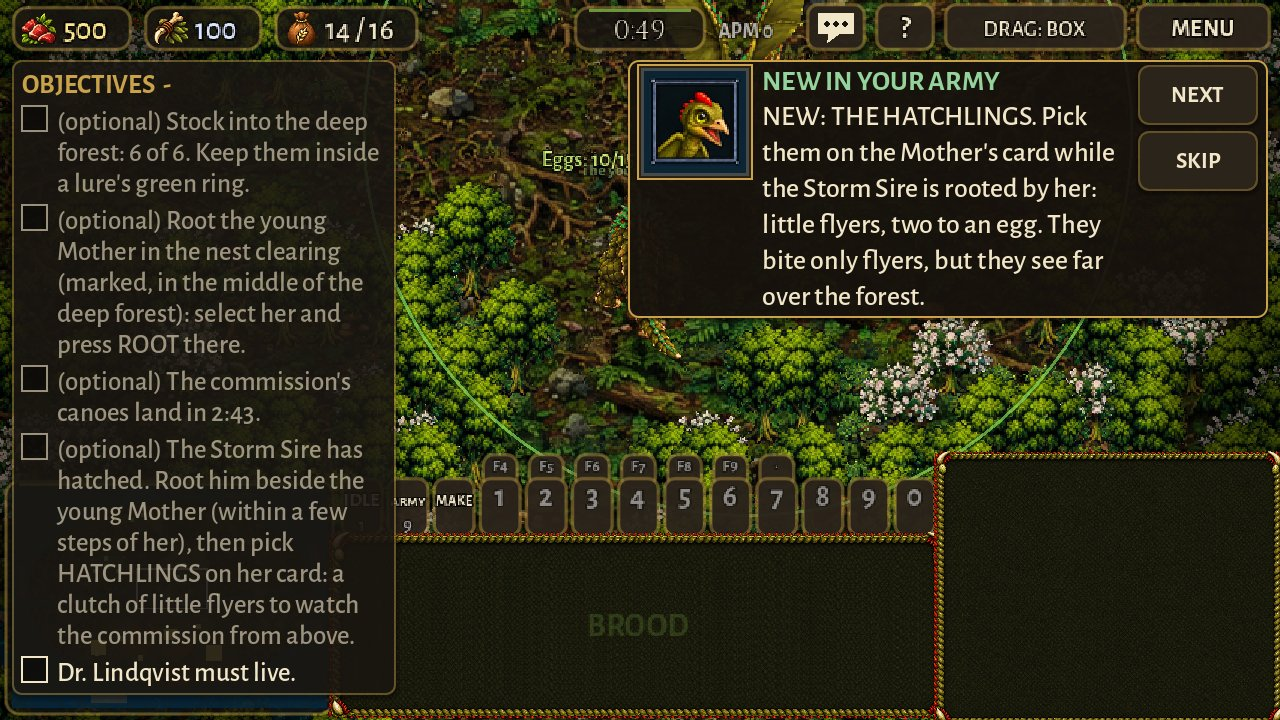
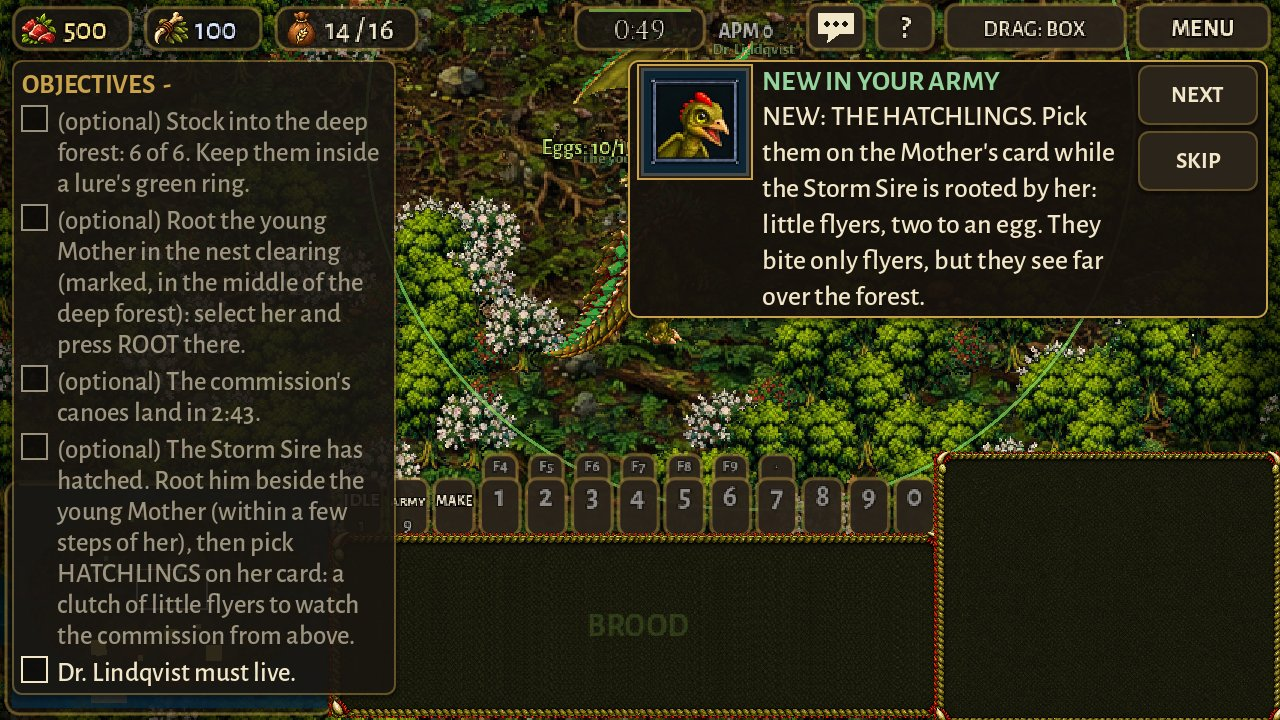
d03-fazenda: checkpoints only on part2/part3 (sub-triggers renamed), d03 in the save tests, the sim keeps its groups after a load; docs
Claude-Session: https://claude.ai/code/session_01NtmEZhP1uA8k4DLQ7BYfMz

diff --git a/tools/campaign/make_d03_mission.py b/tools/campaign/make_d03_mission.py
@@ -627,7 +627,7 @@ TR_ += [
         {"spare": {"tag": "benedito", "on": True}}, {"spare": {"tag": "fonseca", "on": True}}, {"spare": {"tag": "valadares", "on": True, "if": STOCK}},
         {"ping": {"area": "landing"}}]},
     # (a person leads the commission: all its men are his, at the canoes)
-    {"id": "part2_c", "when": {"all": [{"fired": "part2"}, COM]}, "do": [
+    {"id": "c_landed", "when": {"all": [{"fired": "part2"}, COM]}, "do": [
         {"spawn": {"team": "commission", "kind": "musketeer", "count": 12, "at": "landing", "tag": "searchers", "tags": ["com_men"], "fixed": True}},
         {"spawn": {"team": "commission", "kind": "cuirassier", "count": 4, "at": "landing", "tag": "riders", "tags": ["com_men"], "fixed": True}},
         {"camera": {"area": "landing", "side": "commission"}}, {"objective": {"id": "c_dawn", "set": "active"}},
@@ -635,7 +635,7 @@ TR_ += [
         {"clock": {"name": "c_dawn", "secs": DUSK["withheld"] + DAWN_SECS, "scale": False, "if": WITHHELD}},
         {"say": ["v_c_tip", "v_c_tracks"]}, {"ping": {"area": "deep"}}]},
     # the scripted search parties
-    {"id": "parties", "when": {"all": [{"fired": "part2"}, NO_COM]}, "delay": 3, "do":
+    {"id": "search_parties", "when": {"all": [{"fired": "part2"}, NO_COM]}, "delay": 3, "do":
         party("party_a", ROUTE_A, "landing") + party("party_b", ROUTE_B, "landing", extra=[{"order": {"tag": "fonseca", "do": "follow", "leader": "party_b", "within": 2}}])
         + party("party_c", ROUTE_C, "landing")
         + [{"spawn": {"team": "commission", "kind": "cuirassier", "count": 4, "at": "landing", "tag": "riders", "tags": ["searchers", "com_men"], "if": NO_COM}},
@@ -643,25 +643,25 @@ TR_ += [
            {"spawn": {"team": "commission", "kind": "musketeer", "count": 2, "at": "landing", "tag": "v_guard", "tags": ["searchers", "com_men"], "fixed": True, "if": NO_COM}},
            {"order": {"tag": "valadares", "do": "route", "route": ROUTE_V, "loop": True, "name": "valadares_road"}},
            {"order": {"tag": "v_guard", "do": "follow", "leader": "valadares", "within": 2}}]},
-    {"id": "part2_say", "when": {"fired": "part2"}, "delay": 1, "do": [{"say": ["n_land", "f_land"]}]},
-    {"id": "part2_say_s", "when": {"all": [{"fired": "part2_say"}, STOCK]}, "delay": 1, "do": [{"say": ["l_land"]}]},
-    {"id": "part2_v", "when": {"all": [{"fired": "part2_say"}, DRAWN]}, "delay": 8, "do": [{"say": ["v_land"]}]},
-    {"id": "part2_v_w", "when": {"all": [{"fired": "part2_say"}, WITHHELD]}, "delay": 8, "do": [{"say": ["v_land_w"]}]},
+    {"id": "landed_say", "when": {"fired": "part2"}, "delay": 1, "do": [{"say": ["n_land", "f_land"]}]},
+    {"id": "landed_say_s", "when": {"all": [{"fired": "landed_say"}, STOCK]}, "delay": 1, "do": [{"say": ["l_land"]}]},
+    {"id": "landed_v", "when": {"all": [{"fired": "landed_say"}, DRAWN]}, "delay": 8, "do": [{"say": ["v_land"]}]},
+    {"id": "landed_v_w", "when": {"all": [{"fired": "landed_say"}, WITHHELD]}, "delay": 8, "do": [{"say": ["v_land_w"]}]},
     {"id": "quiet", "when": {"all": [{"fired": "part2"}, STOCK]}, "delay": 14, "do": [
         {"say": ["p_still"]}, {"carry": {"tag": "young", "on": True, "pace": 1.0}}, {"carry": {"tag": "people", "on": True, "pace": 1.0}}]},
     # (the quiet rule from the landing on: nobody of the stock bites, its people fire no shot)
     {"id": "quiet_now", "when": {"all": [{"fired": "part2"}, STOCK]}, "do": [
         {"carry": {"tag": "young", "on": True, "pace": 1.0}}, {"carry": {"tag": "people", "on": True, "pace": 1.0}}]},
     # Valadares on hunches: he follows the freshest prints near him
-    {"id": "v_track", "when": {"all": [{"fired": "parties"}, NO_COM, {"not": {"fired": "part3"}}, LIVE]}, "delay": 20, "every": 9, "do": [
+    {"id": "v_track", "when": {"all": [{"fired": "search_parties"}, NO_COM, {"not": {"fired": "part3"}}, LIVE]}, "delay": 20, "every": 9, "do": [
         {"order": {"tag": "valadares", "do": "track", "within": 14}}]},
-    {"id": "parties_track", "when": {"all": [{"fired": "parties"}, NO_COM, {"not": {"fired": "part3"}}, LIVE]}, "delay": 90, "every": 25, "do": [
+    {"id": "track_parties", "when": {"all": [{"fired": "search_parties"}, NO_COM, {"not": {"fired": "part3"}}, LIVE]}, "delay": 90, "every": 25, "do": [
         {"order": {"tag": "party_a", "do": "track", "within": 12}}, {"order": {"tag": "party_c", "do": "track", "within": 12}}]},
     # the search tightens (something new every minute or two: NO WAITING)
-    {"id": "riders_north", "when": {"all": [{"fired": "parties"}, NO_COM, {"not": {"fired": "part3"}}, LIVE]}, "delay": 120, "do": [
+    {"id": "riders_north", "when": {"all": [{"fired": "search_parties"}, NO_COM, {"not": {"fired": "part3"}}, LIVE]}, "delay": 120, "do": [
         {"order": {"tag": "riders", "do": "route", "route": ROUTE_RN, "loop": True, "name": "riders"}}, {"ping": {"area": "ford_w"}}]},
     {"id": "riders_north_say", "when": {"all": [{"fired": "riders_north"}, STOCK]}, "do": [{"say": ["p_riders"]}]},
-    {"id": "v_hunch", "when": {"all": [{"fired": "parties"}, NO_COM, {"not": {"fired": "part3"}}, LIVE]}, "delay": 215, "do": [
+    {"id": "v_hunch", "when": {"all": [{"fired": "search_parties"}, NO_COM, {"not": {"fired": "part3"}}, LIVE]}, "delay": 215, "do": [
         {"order": {"tag": "valadares", "do": "route", "route": ROUTE_H, "loop": True, "name": "valadares_road"}}, {"ping": {"area": "ford_m"}}]},
     {"id": "v_hunch_say", "when": {"fired": "v_hunch"}, "do": [{"say": ["v_hunch"]}]},
     {"id": "v_tracks_say", "when": {"all": [{"fired": "v_track"}, STOCK]}, "delay": 30, "do": [{"say": ["v_tracks"]}]},
@@ -729,7 +729,7 @@ TR_ += [
         {"say": ["n_night"]},
         {"order": {"tag": "searchers", "do": "move", "to": "camp"}}, {"order": {"tag": "valadares", "do": "move", "to": "camp"}},
         {"order": {"tag": "fonseca", "do": "move", "to": "camp"}}]},
-    {"id": "part3_c", "when": {"all": [{"fired": "part3"}, COM]}, "do": [{"say": ["v_c_night"]}]},
+    {"id": "c_night", "when": {"all": [{"fired": "part3"}, COM]}, "do": [{"say": ["v_c_night"]}]},
     {"id": "camp_hold", "when": {"all": [{"fired": "part3"}, NO_COM]}, "delay": 20, "do": [{"order": {"tag": "searchers", "do": "hold"}}]},
     # the restless young one: up and away for the goats (its own short leash: only a lure right beside it holds it)
     {"id": "restless_pick", "when": {"all": [{"fired": "part3"}, LIVE]}, "delay": 11, "do": [
@@ -809,7 +809,8 @@ for t in TR_:
     t["do"] = plain
     fixed.append(t)
     for j, (c, a) in enumerate(cond_acts):
-        fixed.append({"id": "%s__%d" % (t["id"], j), "when": {"all": [{"fired": t["id"]}, c]}, "do": [a]})
+        # (named "if_<id>__n": a sub-trigger of a "part..." trigger must not count as a part of its own: checkpoints)
+        fixed.append({"id": "if_%s__%d" % (t["id"], j), "when": {"all": [{"fired": t["id"]}, c]}, "do": [a]})
 M["triggers"] = [t for t in fixed if not any("spare_kind" in a for a in t["do"])]
 
 # THE ROSTER LADDER (docs/campaign_roster_ladder.md): the stock is bound to B4, the Storm Sire and his Hatchlings

diff --git a/docs/campaign_d03_build.md b/docs/campaign_d03_build.md
@@ -18,7 +18,7 @@ Brood) by default; the solo pick and versus play the commission. EVERY LINE OF T
 | the war map | `campaign/warmap.json`: d03's pin ("The island", the dry season 2772, after a07), a fazenda mark on the Amazon, the rules (below) |
 | the roster ladder | `tools/campaign/roster_ladder.py`: B4 = d03 (THE STORM SIRE + HATCHLINGS), bound team `stock`, NEW cards at 8 s, side `stock`, the cards in pt / es |
 | the roles | `scripts/campaign/rebels.gd`: young_mother (a Brood Mother at 0.42, Linnea's art), keeper (a hired gun), assembly_keeper (a militiaman), fonseca (a dismounted man in black) |
-| the engine | `scripts/campaign/mission_act2.gd` (hide `still`, lies_low, brood_stage, retag, the newest leash rules, tracks' first look, hidden seen under the mist, a renamed leash keeps its loose ones), `mission_run.gd` (counter `sub_counter` / `share_of`), `campaign.gd`; docs/campaign_engine.md "Added by Act 2's d03_fazenda" |
+| the engine | `scripts/campaign/mission_act2.gd` (hide `still`, lies_low, brood_stage, retag, the newest leash rules, tracks' first look, hidden seen under the mist, a renamed leash keeps its loose ones), `mission_run.gd` (counter `sub_counter` / `share_of`), `campaign.gd`, `mission_ui.gd` (a done objective folds to one line); docs/campaign_engine.md "Added by Act 2's d03_fazenda" |
 | tests | `tools/test_campaign_d03.gd` (`godot --headless --path . --script res://tools/test_campaign_d03.gd [-- only=part2,part3]`); d03 added to `tools/test_campaign_save.gd` and `.sh` |
 | the balance sim | `tools/sim_campaign_d03.gd` (`-- active [diff=] [side=commission] [clutch=burned] [eggs=taken] [cages=few/all] [pieter=lost] [map=withheld] [varenne=executed] [lazy] [shots=dir]`) |
 | voices | docs/chatterbox_todo.md "d03_fazenda" (60 lines with their feeling); tools/voice_clone/emotions.json `d03__<id>` |
@@ -156,7 +156,21 @@ on the list.
 
 ## Pictures (docs/shots/d03_fazenda/, CHECK THE FEEL)
 
-SHOTS_NOTE
+The sim's `shots=` under xvfb-run at 1280x720, NORMAL: the stock's run (start in the old pens, the walk, the storm egg,
+the Mother rooted, the Hatchlings, the landing, the dinner, the search, the decoy, a find, the restless one, held, the
+night, dawn) and the commission's (start, the landing, the walk). What they showed and what was done about it:
+
+- The long side objectives (the dinner, the decoy, the Storm Sire's) piled up over the minimap once done: every objective
+  done or failed now folds to its first line (`scripts/campaign/mission_ui.gd`, all missions).
+- The dialogue ran up to 45 s behind the search's events (too many lines at the landing): Lindqvist's "no one bites"
+  line was cut (the objective says it).
+- The young raptors are hard to see on the forest floor at night (their art: green on moss); the LOOSE mark, the lure's
+  ring and the ping show the restless one. For the owner: a brighter rim on Brood units at night, maybe.
+- The NEW card for the Storm Sire comes about 10 s before the egg hatches (the roster ladder's cards come at 8 s in every
+  mission; the test of the ladder wants it so). Left as it is.
+- The commission's player sees its supply as "31/0" in red (it has no houses: it never trains). Left as it is.
+- The young Mother at 0.42 is still big beside the keepers (she is a Mother); the nest clearing holds her and the Storm
+  Sire well.
 
 ## What is placeholder
 
@@ -194,7 +208,9 @@ dismounted man in black, the keepers hired guns). No new sounds.
     campaign's progress file carries them too).
 16. `next` is EMPTY until d06_queen is built; d03 NEEDS a07 (Rome), like d02.
 17. The commission's pages: the King (b01_08) then THE COMMISSION (d03_03) to open; d03_03 then the King to close.
-18. THE KEEPERS are hired guns (b01's hired_gun art); with a06 `varenne` executed they are Assembly militia (the plan).
+18. CHECKPOINTS: only `part2` and `part3` start with "part" (a trigger named "part..." makes a checkpoint); the
+    mission script names its split sub-triggers `if_<id>__n` so they never count as parts.
+19. THE KEEPERS are hired guns (b01's hired_gun art); with a06 `varenne` executed they are Assembly militia (the plan).
 
 ## What is left
 
@@ -205,4 +221,14 @@ dismounted man in black, the keepers hired guns). No new sounds.
 
 ## Tests run
 
-TESTS_RUN
+- tools/test_campaign_d03.gd: 0 failures (the data, every flag path, Part 1 with the hatching and the rooting, Part 2's
+  hiding (still / moving / the shade / found for good), the dinner, a decoy, the warning, Part 3's restless one (slip,
+  held, back, dawn sooner), the losses (found, the fight), the mirror, save and load in each part, ironman, the hubs and
+  the war map after d03).
+- The campaign tests: test_campaign, test_campaign_a01..a07, b01, c01, d02, heroes, ironman, save, test_act2_engine0,
+  test_hubs_grow, test_roster_ladder, test_war_map: 0 failures. test_campaign_m1 has its one older failure (Tomasz's
+  recordings, as in d02's run).
+- test_campaign_save (d03 saved and loaded the same); tools/test_campaign_save.sh d03 (the sim with a save at 3:20: SIM
+  LOAD SAME yes, the same win and flags as straight through).
+- The boot check: no SCRIPT ERROR, no Parse Error.
+- tools/i18n_build.py and tools/i18n_patch_build.py (no version without translation).

diff --git a/docs/campaign_engine.md b/docs/campaign_engine.md
@@ -513,3 +513,4 @@ MissionRun.act2, saved with the mission). Test: tools/test_act2_engine0.gd. Pict
 | `{"counter": {"name", "share_of": other, "share": 0.5}}` | sets the counter to that share of another (rounded up) |
 | THE LEASH: the newest rules | a unit on two leashes obeys the newest one (the restless young one's short leash at night over the stock's); a leash given again under the same name keeps its loose ones loose until a lure holds them |
 | TRACKS | the first look at a unit records where it is without printing a track (no track at the start spots) |
+| OBJECTIVES PANEL | an objective done or failed folds to its first line ("...") so long side tasks do not grow over the minimap (`mission_ui.gd`, every mission) |
